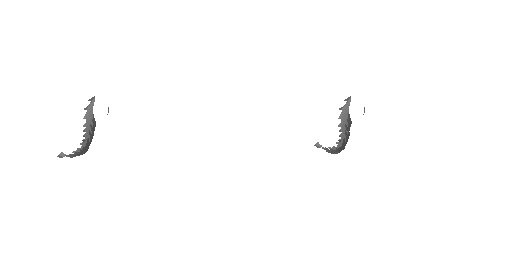
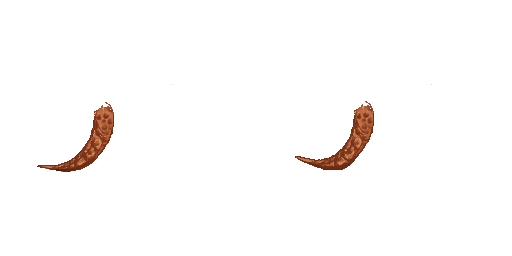
Bug fixes, goose bunny and lizard, NPC display fix

Changed region(s): [[0.5625, 0.375, 0.75, 0.6875], [0.0625, 0.375, 0.25, 0.6875]]

diff --git a/game/04-Variables/canvasmodel-main.js b/game/04-Variables/canvasmodel-main.js
@@ -1123,10 +1123,13 @@ Renderer.CanvasModels.main = {
 					if (V.NPCenable > 0)
 						if (V.NPCstatic > 0)
 							{if (V.npc.length > 0)
-								return `img/npc/${V.npc}.png`;}
+								return `img/npc/${V.npc[0]}.png`;}
 						else
 							{if (V.npc.length > 0)
-								return `img/npc/${V.npc}/${V.pronoun}/${V.NPCskincolour}.png`;}
+								if (V.npc[0] === "Black Wolf" && !V.monster > 0 || V.npc[0] === "Great Hawk" && !V.monster > 0 || V.npc[0] === "Night Monster" && !V.monster > 0)
+									return `img/npc/${V.npc[0]}/${V.pronoun}/monster.png`;
+								else
+									return `img/npc/${V.npc[0]}/${V.pronoun}/${V.NPCskincolour}.png`;}
 			},
 		},
 		"npcpresentfront": {
@@ -1138,10 +1141,13 @@ Renderer.CanvasModels.main = {
 					if (V.NPCenable > 0)
 						if (V.NPCstatic > 0)
 							{if (V.npc.length > 0)
-								return `img/npc/${V.npc}.png`;}
+								return `img/npc/${V.npc[0]}.png`;}
 						else
 							{if (V.npc.length > 0)
-								return `img/npc/${V.npc}/${V.pronoun}/${V.NPCskincolour}.png`;}
+								if (V.npc[0] === "Black Wolf" && !V.monster > 0 || V.npc[0] === "Great Hawk" && !V.monster > 0 || V.npc[0] === "Night Monster" && !V.monster > 0)
+									return `img/npc/${V.npc[0]}/${V.pronoun}/monster.png`;
+								else
+									return `img/npc/${V.npc[0]}/${V.pronoun}/${V.NPCskincolour}.png`;}
 			},
 		},
 		"background": {

diff --git a/game/01-config/sugarcubeConfig.js b/game/01-config/sugarcubeConfig.js
@@ -11,7 +11,7 @@ const StartConfig = {
 	debug: false,
 	enableImages: true,
 	enableLinkNumberify: true,
-	version: "0.5.9.8 New World 0.1.5.3",
+	version: "0.5.9.8 New World 0.1.5.4",
 	versionName: `"Wild Wonderland" edition`,
 	sneaky: false,
 	socialMediaEnabled: true,
